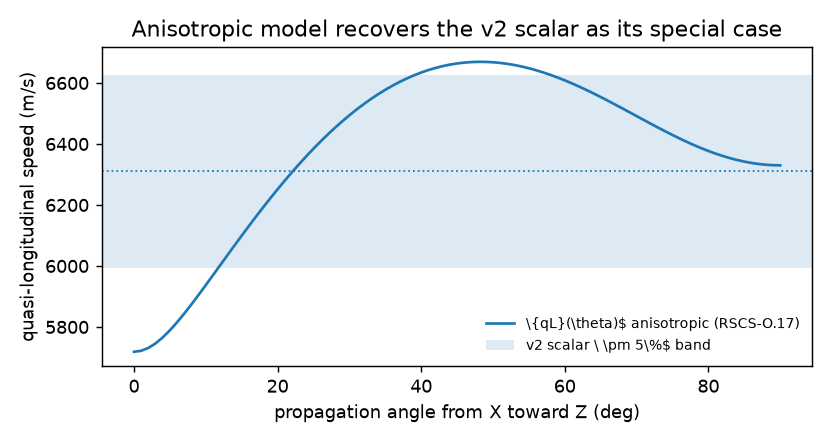
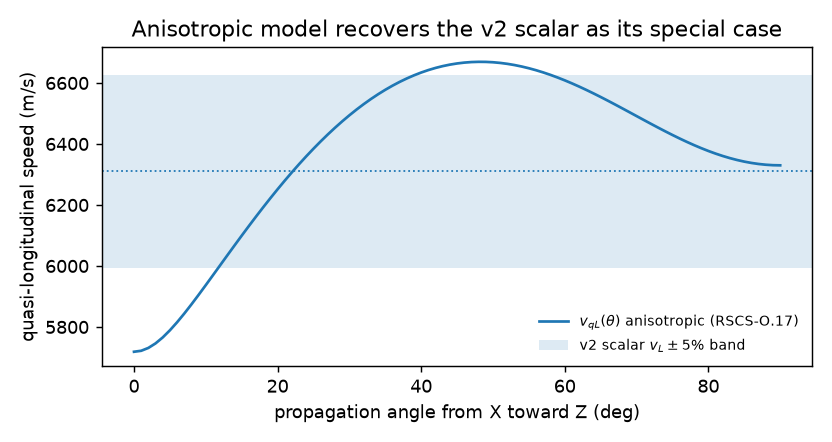
Fix figure math rendering (D-V3-05/06, user-reported)
- D-V3-05: README PNGs regenerated via new permanent
  tools/make_readme_images.py (the one-off shell generation had escaped
  the $ characters, so matplotlib printed raw mathtext); legends now
  render v_qL(theta) and +/-5% properly (visually verified)
- D-V3-06: gvPelDn/gvMTwo macros emit siunitx \num{}; Crystal
  Application rebuilt (0 undefined / 0 overfull): -2.95 x 10^-8 and
  7.01 x 10^-16 instead of ASCII "e-08"/"e-16"
- full-figure audit: all v3 manuscript figures/PDFs + README PNGs clean;
  frozen v2 fig_epsilon_map keeps its ASCII style (v2 shipped record);
  registry-verbatim ASCII in generated tables is data faithfulness
- release/ manuscripts bundle + SHA256SUMS rebuilt; source zip verified
  BYTE-IDENTICAL to the v3.0.0 tag archive (dc6b1aa7)

Changed region(s): [[0.5625, 0.7059, 0.9688, 0.7941]]

diff --git a/tools/make_readme_images.py b/tools/make_readme_images.py
@@ -1,0 +1,86 @@
+#!/usr/bin/env python3
+"""Generate the README PNG figures (docs/images/) from the tested
+libraries — the same math as the manuscript figures, rendered for GitHub.
+
+Run:  python tools/make_readme_images.py
+Deterministic (SOURCE_DATE_EPOCH pinned; PNGs carry no timestamp text).
+Fixes D-V3-05: the original one-off shell generation escaped the ``$``
+characters, so matplotlib rendered the mathtext markup literally.
+"""
+from __future__ import annotations
+
+import os
+import sys
+from pathlib import Path
+
+os.environ.setdefault("SOURCE_DATE_EPOCH", "0")
+import matplotlib
+matplotlib.use("Agg")
+import matplotlib.pyplot as plt  # noqa: E402
+import numpy as np  # noqa: E402
+
+REPO = Path(__file__).resolve().parents[1]
+sys.path.insert(0, str(REPO))
+OUT = REPO / "docs" / "images"
+
+
+def anisotropy_sweep() -> None:
+    from rgcs_core.anisotropy import wave_speeds
+    from rgcs_core.uncertainty import default_wave_speed
+    v2b = default_wave_speed()
+    lo, hi = v2b.interval(k=1.0)
+    angles = np.linspace(0.0, 90.0, 91)
+    vql = [wave_speeds(np.array([np.cos(np.radians(a)), 0.0,
+                                 np.sin(np.radians(a))]))["v_quasi_long_m_s"]
+           for a in angles]
+    fig, ax = plt.subplots(figsize=(6.4, 3.4), dpi=130)
+    ax.plot(angles, vql,
+            label=r"$v_{qL}(\theta)$ anisotropic (RSCS-O.17)")
+    ax.axhspan(lo, hi, alpha=0.15,
+               label=r"v2 scalar $v_L \pm 5\%$ band")
+    ax.axhline(v2b.mean, ls=":", lw=1)
+    ax.set_xlabel("propagation angle from X toward Z (deg)")
+    ax.set_ylabel("quasi-longitudinal speed (m/s)")
+    ax.set_title("Anisotropic model recovers the v2 scalar as its "
+                 "special case")
+    ax.legend(frameon=False, fontsize=8)
+    fig.tight_layout()
+    fig.savefig(OUT / "anisotropy_sweep.png")
+    plt.close(fig)
+    print("wrote docs/images/anisotropy_sweep.png")
+
+
+def macro_envelopes() -> None:
+    from rgcs_desktop.services.waveform_preview import preview_macro_envelope
+    fig, axes = plt.subplots(3, 1, figsize=(7.0, 3.2), sharex=True,
+                             dpi=130)
+    for axi, mode in zip(axes, ("standard", "half_spacing",
+                                "double_rate")):
+        env = preview_macro_envelope(mode)
+        for t0, t1, state in env["segments"]:
+            if state == "on":
+                axi.axvspan(t0, t1, color="#17324D")
+            elif state == "pause":
+                axi.axvspan(t0, t1, color="#C9DAE7")
+        axi.set_yticks([])
+        axi.set_ylabel(mode, rotation=0, ha="right", va="center",
+                       fontsize=8)
+        axi.set_xlim(0, 560)
+    axes[0].set_title("The three frozen macro drive envelopes "
+                      "(cycle-exact)")
+    axes[-1].set_xlabel("time (ms)")
+    fig.tight_layout()
+    fig.savefig(OUT / "macro_envelopes.png")
+    plt.close(fig)
+    print("wrote docs/images/macro_envelopes.png")
+
+
+def main() -> int:
+    OUT.mkdir(exist_ok=True)
+    anisotropy_sweep()
+    macro_envelopes()
+    return 0
+
+
+if __name__ == "__main__":
+    sys.exit(main())

diff --git a/tools/make_v3_artifacts.py b/tools/make_v3_artifacts.py
@@ -183,8 +183,10 @@ def crystal() -> None:
         _macro("gvNo", f"{QUARTZ_N_O:.4f}")
         + _macro("gvNe", f"{QUARTZ_N_E:.4f}")
         + _macro("gvBirefringence", f"{QUARTZ_N_E - QUARTZ_N_O:.4f}")
-        + _macro("gvPelDn", f"{dn:.2e}")
-        + _macro("gvMTwo", f"{m2:.2e}")
+        # D-V3-06: scientific notation must go through siunitx \num so it
+        # typesets as a x 10^b instead of raw ASCII "1.23e-08".
+        + _macro("gvPelDn", f"\\num{{{dn:.2e}}}")
+        + _macro("gvMTwo", f"\\num{{{m2:.2e}}}")
         + _macro("gvDensity", f"{ALPHA_QUARTZ_DENSITY_KG_M3:.0f}")
         + _macro("gvZql", f"{zql:.0f}")
         + _macro("gvXql", f"{xql:.0f}")

diff --git a/manuscripts/rgcs_crystal_application/tables/generated_values.tex b/manuscripts/rgcs_crystal_application/tables/generated_values.tex
@@ -1,8 +1,8 @@
 \newcommand{\gvNo}{1.5443}
 \newcommand{\gvNe}{1.5534}
 \newcommand{\gvBirefringence}{0.0091}
-\newcommand{\gvPelDn}{-2.95e-08}
-\newcommand{\gvMTwo}{7.01e-16}
+\newcommand{\gvPelDn}{\num{-2.95e-08}}
+\newcommand{\gvMTwo}{\num{7.01e-16}}
 \newcommand{\gvDensity}{2648}
 \newcommand{\gvZql}{6330}
 \newcommand{\gvXql}{5719}

diff --git a/docs/DEFECT_REGISTER.md b/docs/DEFECT_REGISTER.md
@@ -135,3 +135,22 @@ Severity: P0 blocker / P1 major / P2 minor / P3 cosmetic. Nothing was fixed by Q
   environment and deselected by exact node id in all hosted CI jobs.
   Hosted matrix green: ubuntu/windows/macos x 3.11/3.13 + pinned
   reference.
+
+### Post-release figure-rendering audit (2026-07-15, user report)
+
+- **D-V3-05 (P3, FIXED):** README PNG `docs/images/anisotropy_sweep.png`
+  showed raw mathtext (`\{qL}(\theta)$`) — the one-off shell generation
+  escaped the `$` characters. Fix: permanent generator
+  `tools/make_readme_images.py` with correct raw-string labels; PNGs
+  regenerated and visually verified.
+- **D-V3-06 (P3, FIXED):** generated macros gvPelDn/gvMTwo rendered
+  scientific notation as ASCII ("-2.95e-08") in the Crystal Application
+  manuscript. Fix: macros now emit siunitx `\num{}`; manuscript rebuilt
+  (0 undefined / 0 overfull) and visually verified as -2.95 x 10^-8 and
+  7.01 x 10^-16.
+- Full-figure audit performed: all three v3 manuscript figure PDFs, all
+  four manuscript PDFs (TikZ + captions + equations), README PNGs, and
+  v2 spot-checks render correctly. Known-accepted: frozen v2
+  fig_epsilon_map title uses the ASCII style ("1.125e-03") — v2 shipped
+  record, not modified; registry-verbatim ASCII strings (E^3, g^(2)) in
+  generated tables are data faithfulness, not rendering defects.